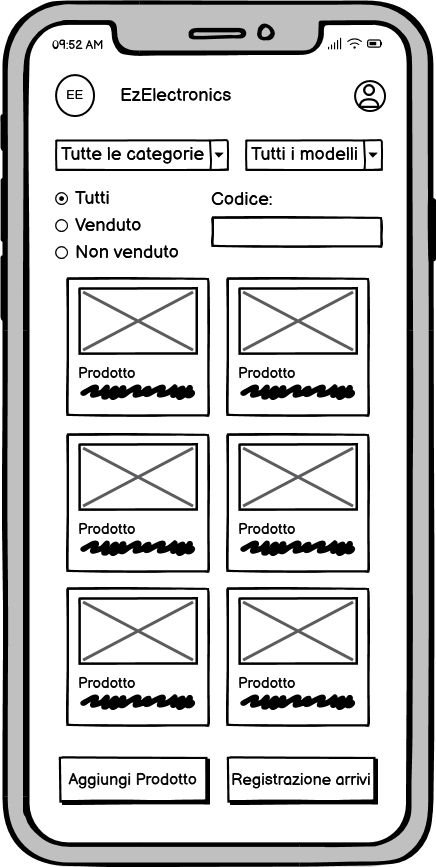
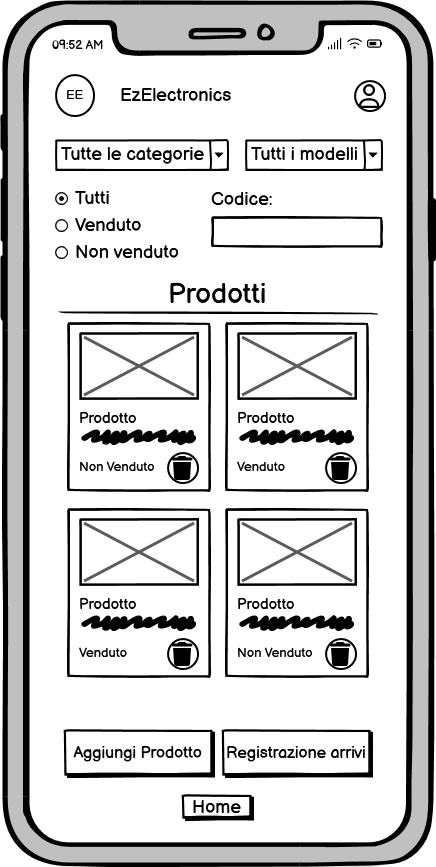
Prime parti GUI V2 + stakeholder, contextDiagram, interface V2

Changed region(s): [[0.1193, 0.3114, 0.8647, 0.9654]]

diff --git a/RequirementsDocumentV2.md b/RequirementsDocumentV2.md
@@ -39,20 +39,21 @@ EZElectronics (read EaSy Electronics) is a software application designed to help
 
 # Stakeholders
 
-| Nome dello Stakeholder | Descrizione                                                              |
-| :--------------------: | :----------------------------------------------------------------------: |
-| Cliente                | Individuo che accede al sito web per visualizzare o comprare prodotti    |
-| Manager                | Manager dello store fisico che puo' gestire i prodotti sul sito          |
-| Servizio bancario      | Servizio per transazioni monetarie                                       |
-| Sviluppatori           | Il team di sviluppatori del sistema                                      |
-| Servizio di spedizione | Servizio per la spedizione dei prodotti                                  |
-| Amministratore         | Amministratore del sistema                                               |
+| Nome dello Stakeholder | Descrizione                                                                     |
+| :--------------------: | :-----------------------------------------------------------------------------: |
+| Cliente                | Individuo che accede al sito web per visualizzare o comprare prodotti           |
+| Manager                | Manager dello store fisico che puo' gestire i prodotti sul sito                 |
+| Servizio bancario      | Servizio per transazioni monetarie                                              |
+| Sviluppatori           | Il team di sviluppatori del sistema                                             |
+| Servizio di spedizione | Servizio per la spedizione dei prodotti                                         |
+| Amministratore         | Amministratore del sistema                                                      |
+| Utente guest           | Utente che non ha ancora effettuato la fase di login o la fase di registrazione |
 
 # Context Diagram and interfaces
 
 ## Context Diagram
 
-![contextDiagram](./contextDiagramV2.png)
+![contextDiagram](./img/contextDiagramV2.png)
 
 ## Interfaces
 
@@ -60,7 +61,8 @@ EZElectronics (read EaSy Electronics) is a software application designed to help
 | :--------------------: | :-----------------------------------------------------------------------:  | :----------------: |
 | Cliente                | GUI (interfaccia per navigare il sito, visualizzare e comprare prodotti)   | Smartphone / PC    |
 | Manager                | GUI (interfaccia per navigare il sito, visualizzare e gestire i prodotti)  | Smartphone / PC    |
-| Amministratore         | GUI (interfaccia per visualizzare e gestire i prodotti e gli utenti)       | Smartphone / PC    |
+| Utente guest           | GUI (interfaccia per visualizzare i prodotti e per l'autenticazione)       | Smartphone / PC    |
+| Amministratore         | GUI (interfaccia per visualizzare e gestire i prodotti e gli utenti)       | Console            |
 | Servizio bancario      | APIs                                                                       | Internet           |
 | Servizio di spedizione | APIs                                                                       | Internet           |
 

diff --git a/GUIPrototypeV2.md b/GUIPrototypeV2.md
@@ -4,7 +4,7 @@ Authors: Alessandra Cicciarelli, Filippo Forte, Giulio Arecco, Riccardo Daniele 
 
 Date: 23/04/2024
 
-Version: 2.0
+Version: 2.2
 
 ## Pagina Principale
 
@@ -30,13 +30,17 @@ Version: 2.0
 
 ![PaginaCustomerPC](/img/PaginaCustomerPC.png)
 
-### Carrello
+### Carrello (da utente customer)
+
+Si accede alla pagina premendo sull'icona del carrello sulla navbar
 
 ![Carrello](/img/Carrello.png)
 
 ![CarrelloPC](/img/CarrelloPC.png)
 
-### Storia degli acquisti
+### Storia degli acquisti (da utente customer)
+
+Si accede alla pagina tramite la voce nel menu a tendina nella navbar
 
 ![History](/img/History.png)
 
@@ -48,23 +52,33 @@ Version: 2.0
 
 ![PaginaManagerPC](/img/PaginaManagerPC.png)
 
-### Inserisci un nuovo prodotto
+### Inserisci un nuovo prodotto (da utente manager)
+
+Si accede alla pagina tramite il bottone "Aggiungi Prodotto" sulla navbar per la versione da PC mentre attraverso il bottone corrispondente situato in basso da cellulare
 
 ![InserisciProdotto](/img/InserisciProdotto.png)
 
 ![InserisciProdottoPC](/img/InserisciProdottoPC.png)
 
-### Logout
+### Registrazione arrivi (da utente manager)
+
+Si accede alla pagina tramite il bottone "Registrazione Arrivi" sulla navbar per la versione da PC mentre attraverso il bottone corrispondente situato in basso da cellulare
+
+![InserisciProdotto](/img/RegistrazioneArrivi.png)
+
+![InserisciProdottoPC](/img/RegistrazioneArriviPC.png)
+
+### Logout 
 
 ![Logout](/img/Logout.png)
 
 ![LogoutPC](/img/LogoutPC.png)
 
-### Visualizza prodotti inseriti
+### Visualizza prodotti inseriti (da utente manager)
+
+Si accede alla pagina tramite la voce nel menu a tendina nella navbar
 
 ![IMieiProdotti](/img/IMieiProdotti.png)
 
 ![IMieiProdottiPC](/img/IMieiProdottiPC.png)
-
-## Scrermata di visualizzazione prodotti (da utente admin)
 

diff --git a/GUIPrototypeV1.md b/GUIPrototypeV1.md
@@ -73,12 +73,3 @@ Si accede alla pagina tramite il bottone "Registrazione Arrivi" sulla navbar per
 ![Logout](/img/Logout.png)
 
 ![LogoutPC](/img/LogoutPC.png)
-
-### Visualizza prodotti inseriti (da utente manager)
-
-Si accede alla pagina tramite la voce nel menu a tendina nella navbar
-
-![IMieiProdotti](/img/IMieiProdotti.png)
-
-![IMieiProdottiPC](/img/IMieiProdottiPC.png)
-
